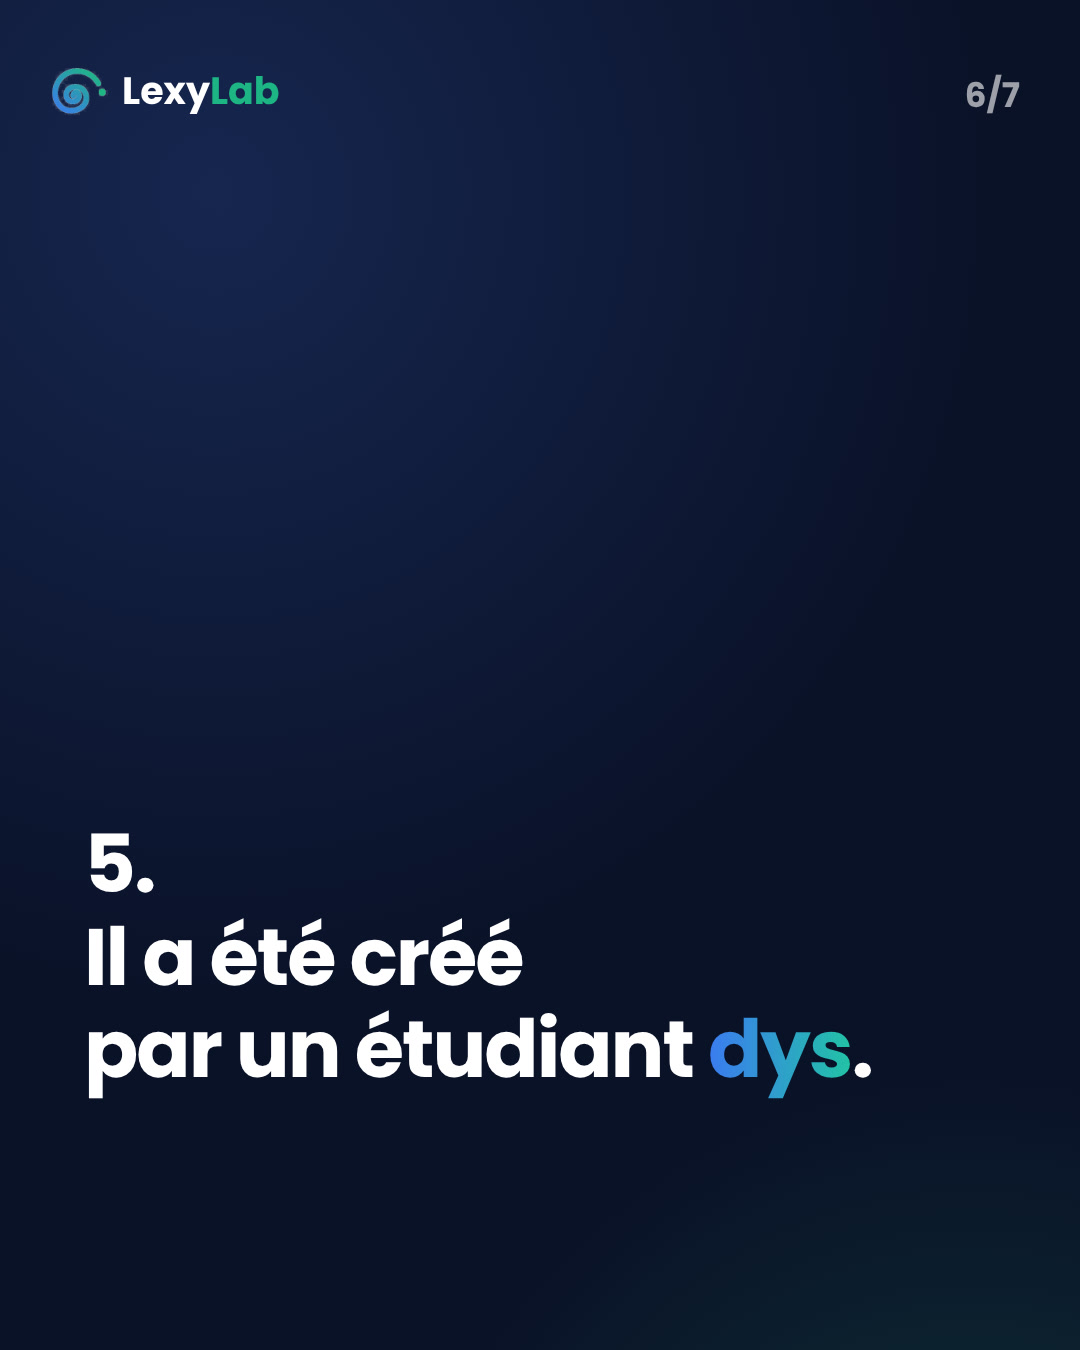
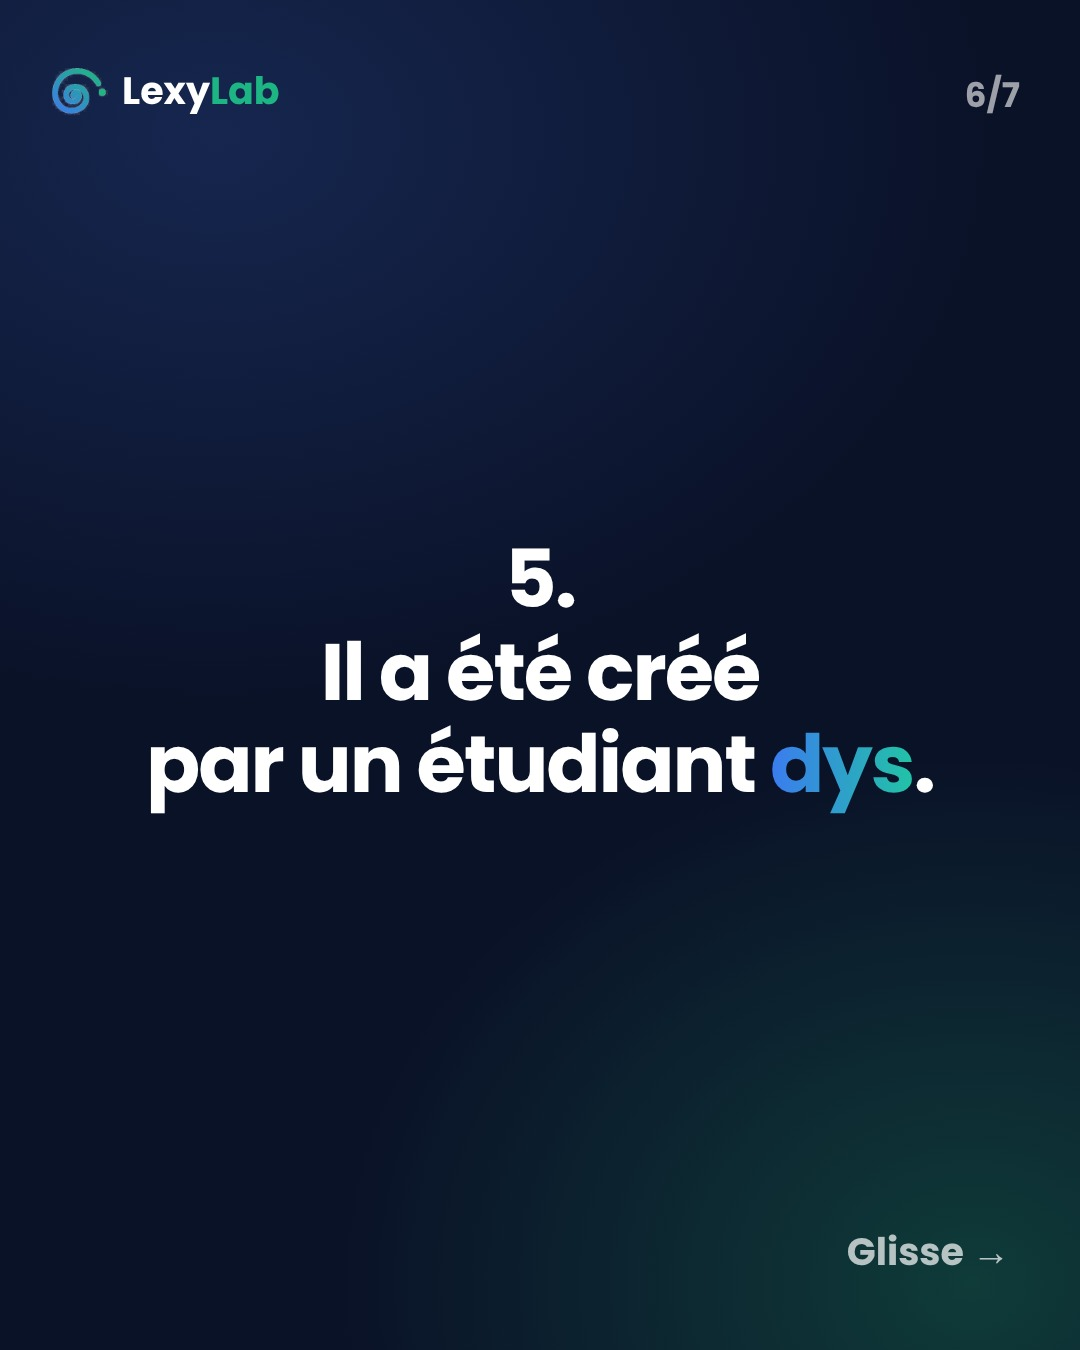
Carrousels : contenu centré (vertical et horizontal)
Claude-Session: https://claude.ai/code/session_01Srw4dJGkdSRn6e9UWtfu72

Changed region(s): [[0.0611, 0.4044, 1.0, 0.9956]]

diff --git a/agent-video/formats/presentation.html b/agent-video/formats/presentation.html
@@ -33,6 +33,13 @@
   #count{position:absolute;right:60px;top:70px;font-weight:700;font-size:34px;opacity:.6;display:none}
   #swipe{position:absolute;right:70px;bottom:70px;font-weight:700;font-size:38px;opacity:.7;display:none}
   .sub.sub2{display:block}
+  /* Carrousel (1080x1350) : tout centré, verticalement et horizontalement */
+  body.car #stage{height:1350px}
+  body.car #sc{align-items:center;text-align:center;left:70px;right:70px}
+  body.car .sub{text-align:center}
+  body.car .ed{text-align:left;width:100%;box-sizing:border-box}
+  body.car .item{text-align:left}
+  body.car #sc > div[style*="margin-top:40px"]{display:inline-block;text-align:left}
 </style></head>
 <body>
 <div id="stage">
@@ -73,7 +80,7 @@ function init(p){
     S.push({...s,i,t0:t,t1:t+d}); ev.push({t:t,type:i===0?'boom':'swoosh-up'});
     if(s.type==='editeur'){ ev.push({t:t+d*0.62,type:'ding'}); }
     t+=d; });
-  if(MODE==='carrousel'){ document.getElementById('count').style.display='block'; return {count:S.length}; }
+  if(MODE==='carrousel'){ document.body.classList.add('car'); document.getElementById('count').style.display='block'; return {count:S.length}; }
   const ty=S.filter(s=>s.type==='editeur').map(s=>[s.t0+1.0,s.t0+1.0+(s.t1-s.t0)*0.35]);
   return {duration:t+0.3, events:ev, typing:ty, music:p.music||'calme'};
 }
